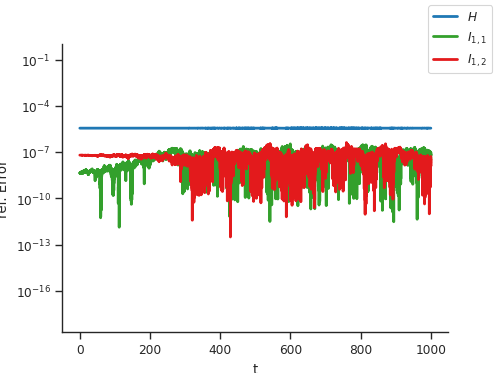
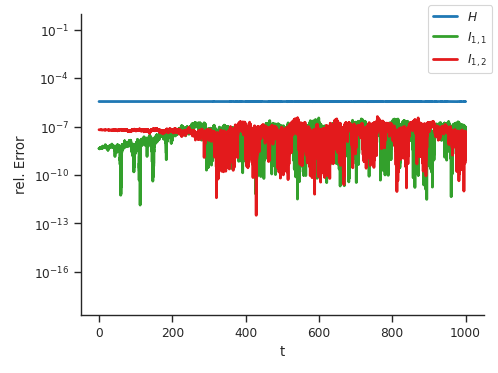
Add tight layout

Changed region(s): [[0.0, 0.0295, 0.9639, 0.9732]]

diff --git a/experiments/gatuschiIntegrators/visualize.py b/experiments/gatuschiIntegrators/visualize.py
@@ -19,6 +19,7 @@ if __name__ == '__main__':
     ax.set_ylabel(r"rel. Error")
     fig.legend()
     postprocess_style()
+    fig.tight_layout()
     plt.savefig(f"relativeErrorsOneStepGS99.png")
     fig.show()
 
@@ -38,5 +39,6 @@ if __name__ == '__main__':
     # ax2.set_ylim(bottom=min(gs99["I11"]), top=min(gs99["I11"]) + max(gs99["Hs"]) - min(gs99["Hs"]))
     fig.legend()
     postprocess_style()
+    fig.tight_layout()
     plt.savefig(f"EnergyConservationOneStepGS99Long.png")
     fig.show()

diff --git a/experiments/plot_wave_kernels.py b/experiments/plot_wave_kernels.py
@@ -20,5 +20,6 @@ if __name__ == "__main__":
     ax.plot(xs, wkms(xs), color=colors[1], label="2")
     fig.legend()
     postprocess_style()
+    fig.tight_layout()
     fig.savefig("figures/plot_wave_kernels.png")
     plt.show()
